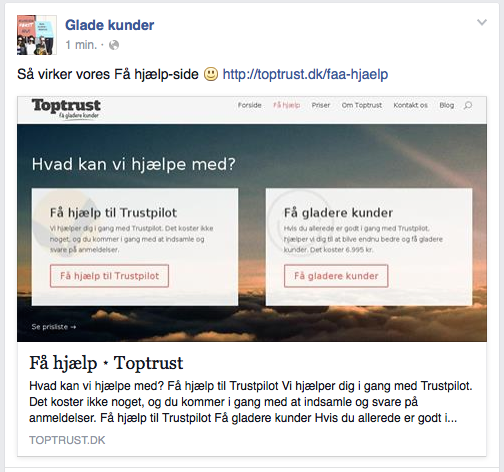
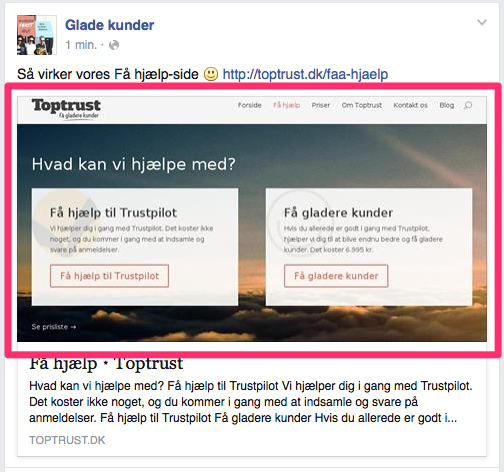
Show screenshot in readme

Changed region(s): [[0.0, 0.1483, 1.0, 0.7712]]

diff --git a/README.md b/README.md
@@ -6,7 +6,7 @@ It uses [PhantomJS](http://phantomjs.org/) to do this.
 
 The screenshot will look something like this when shared on social media:
 
-![Screenshot]()
+![Screenshot](https://raw.githubusercontent.com/lassebunk/screenshot-generator/master/screenshot-1.png)
 
 ## Installation
 
